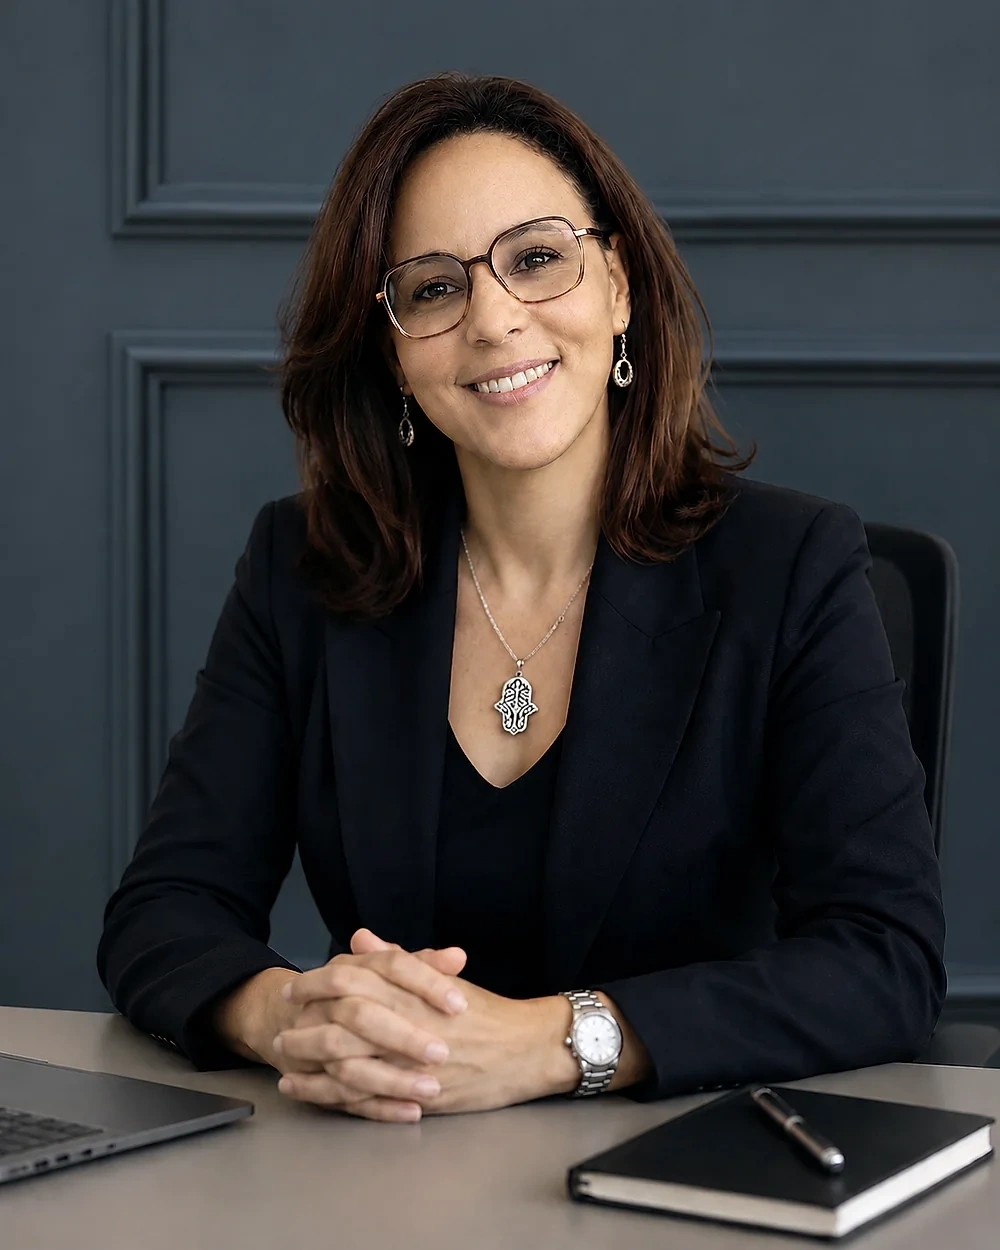
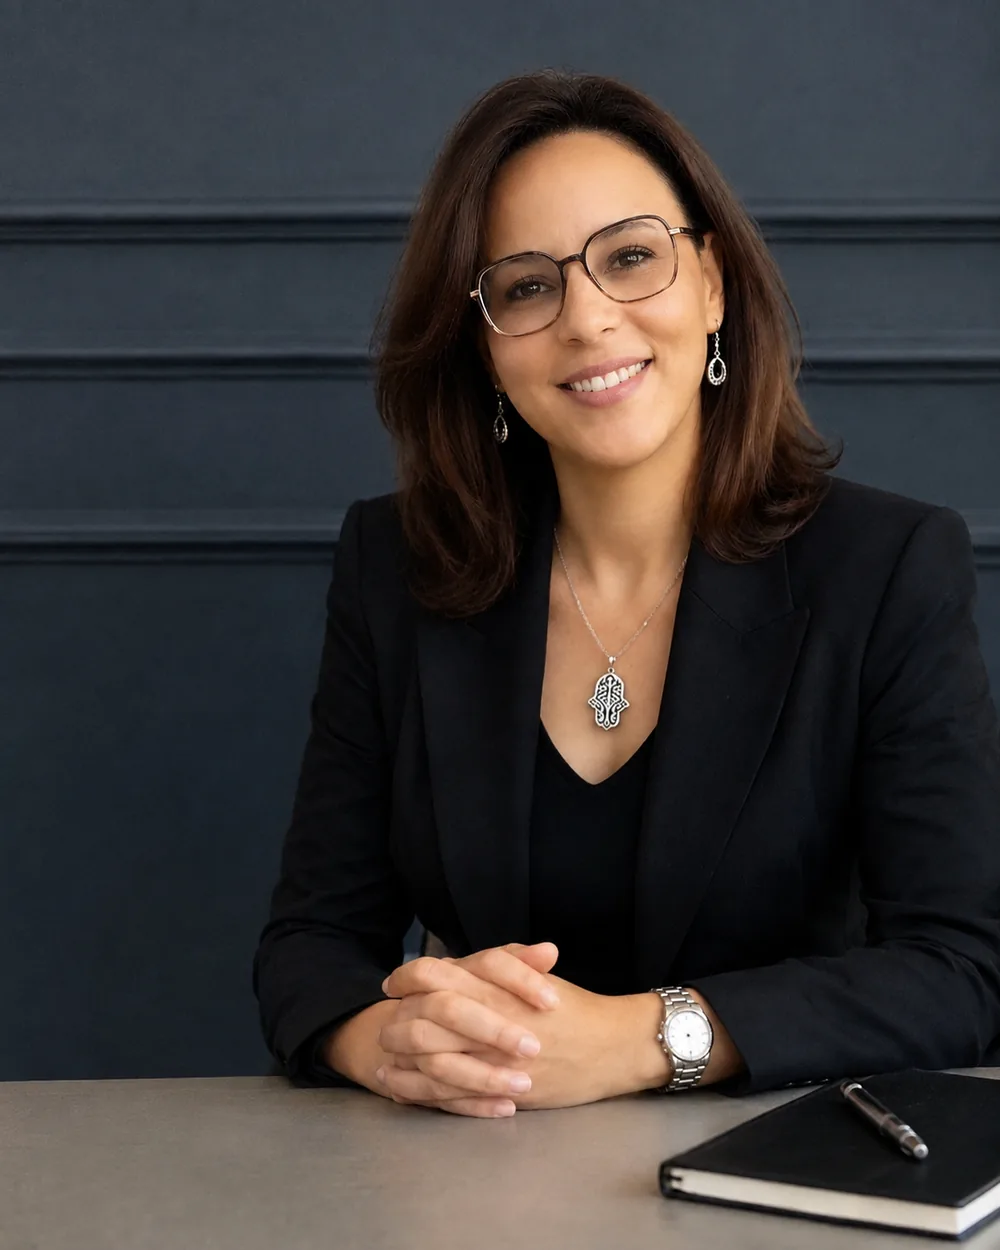
Remplace la photo de Dalal Fahmi par la nouvelle prise de vue
- images/dalal-pro-Web.webp regénéré depuis "Dalal Fahmi.png"
  (1000x1250, WebP q82 — 107 Ko -> 45 Ko)
- object-position: 66% pour recentrer le sujet dans le cadre
  vertical du hero (le sujet est décentré à droite sur la source)
- og:image de signatures.html et audit-signature.html pointés sur
  le fichier courant (dalal-pro.webp n'existe plus)

diff --git a/audit-signature.html b/audit-signature.html
@@ -15,7 +15,7 @@
   <meta property="og:title" content="Audit Stratégique Éditorial — Diagnostic stratégique exclusif" />
   <meta property="og:description" content="Identifiez précisément ce qui fragilise votre positionnement et empêche votre communication de produire un impact concret." />
   <meta property="og:url" content="https://neybras.com/audit-signature.html" />
-  <meta property="og:image" content="https://neybras.com/images/dalal-pro.webp" />
+  <meta property="og:image" content="https://neybras.com/images/dalal-pro-Web.webp" />
 
   <link rel="preconnect" href="https://fonts.googleapis.com">
   <link rel="preconnect" href="https://fonts.gstatic.com" crossorigin>

diff --git a/signatures.html b/signatures.html
@@ -15,7 +15,7 @@
   <meta property="og:title" content="Signatures — Neybras by Dalal Fahmi" />
   <meta property="og:description" content="La preuve par l'exercice : l'autorité éditoriale que je construis chaque mois pour des experts du droit et de la finance." />
   <meta property="og:url" content="https://neybras.com/signatures.html" />
-  <meta property="og:image" content="https://neybras.com/images/dalal-pro.webp" />
+  <meta property="og:image" content="https://neybras.com/images/dalal-pro-Web.webp" />
 
   <link rel="preconnect" href="https://fonts.googleapis.com">
   <link rel="preconnect" href="https://fonts.gstatic.com" crossorigin>

diff --git a/css/neybras-home.css b/css/neybras-home.css
@@ -193,7 +193,7 @@ em { font-style: italic; color: var(--bordeaux); }
 .hero__media img {
   position: relative; z-index: 2;
   width: min(420px, 100%); border-radius: var(--radius);
-  box-shadow: var(--shadow-lg); object-fit: cover; aspect-ratio: 4/5;
+  box-shadow: var(--shadow-lg); object-fit: cover; object-position: 66% 50%; aspect-ratio: 4/5;
 }
 .hero__media::before {
   content: ""; position: absolute; z-index: 1;
